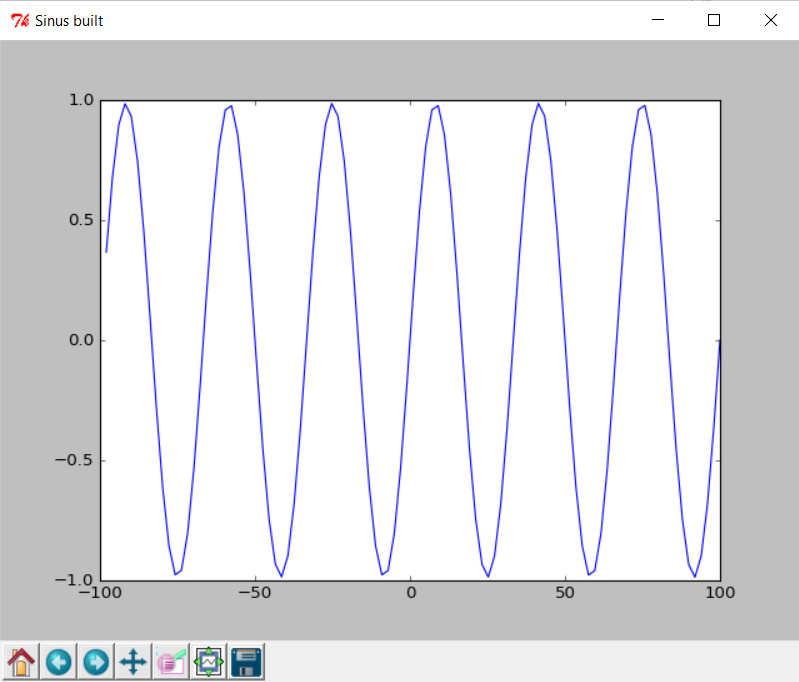
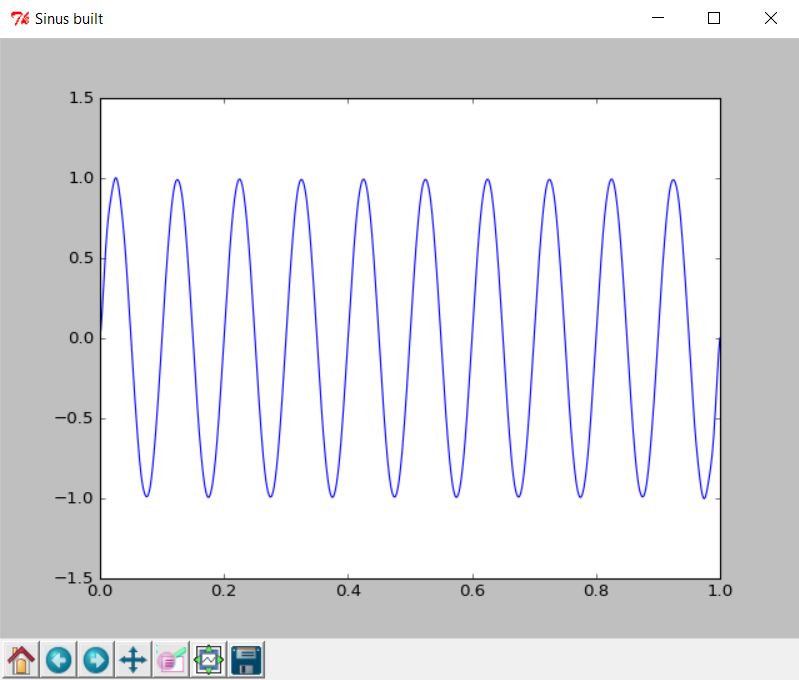
fixed 7th homework

diff --git a/Homework7/homework.py b/Homework7/homework.py
@@ -1,31 +1,40 @@
+import numpy
 from pylab import plot, figure, show
 
 from numpy import pi, linspace, sin
 
 
 def h_values(t_linspace, period):
-    return sin(t_linspace * pi / period) / t_linspace * pi
+    h = []
+    for t_i in t_linspace:
+        h.append((1.0 / period) if t_i == 0
+                 else sin(t_i * pi / period) / (t_i * pi))
+    return h
 
 
 def x_values(t_linspace, m_param):
     return sin(2 * pi * t_linspace * m_param)
 
 
-def y_values(t_linspace, period, m_param, start, end):
-    result = 0
-    for index in range(start, end):
-        result += x_values(index + t_linspace, m_param) * h_values(t_linspace - index * period, period)
-    return period * result / 10
+def y_values(t_linspace, period, x_items):
+    result = []
+    freq_sample = 10 * 1.0 / period
+    time_linspace = linspace(0, 1, freq_sample)
+    for t_i in time_linspace:
+        h = h_values(t_i - t_linspace, period)
+        result.append(numpy.sum(x_items * h) * period)
+    return time_linspace, result
 
-M = 3
-T = 3
-count = 100
-t = linspace(-100, 100, count)
 
-x = x_values(t, T)
+M = 10
+f_sample = 13 * M
+t = linspace(0, 1, f_sample)
+
+x = x_values(t, M)
 figure("Sinus dots")
 plot(t, x, 'r+')
 
 figure("Sinus built")
-plot(t[1:], y_values(t[1:], count * 100, M, -10, 10))
+t_y, y = y_values(t, 1.0 / f_sample, x)
+plot(t_y, y)
 show()
